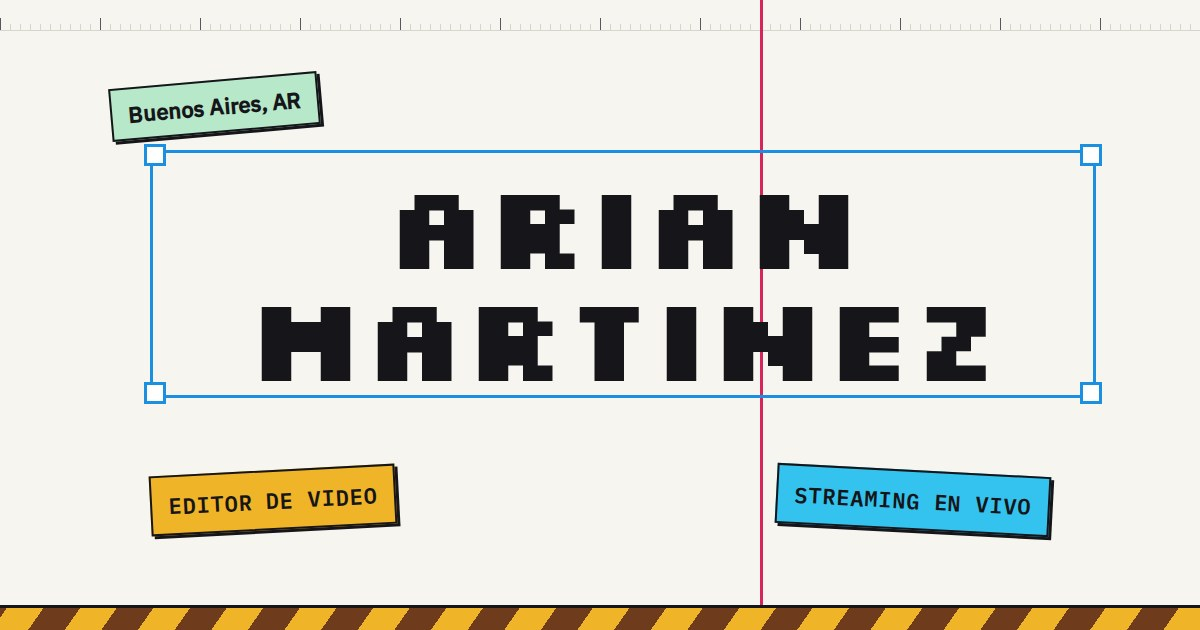
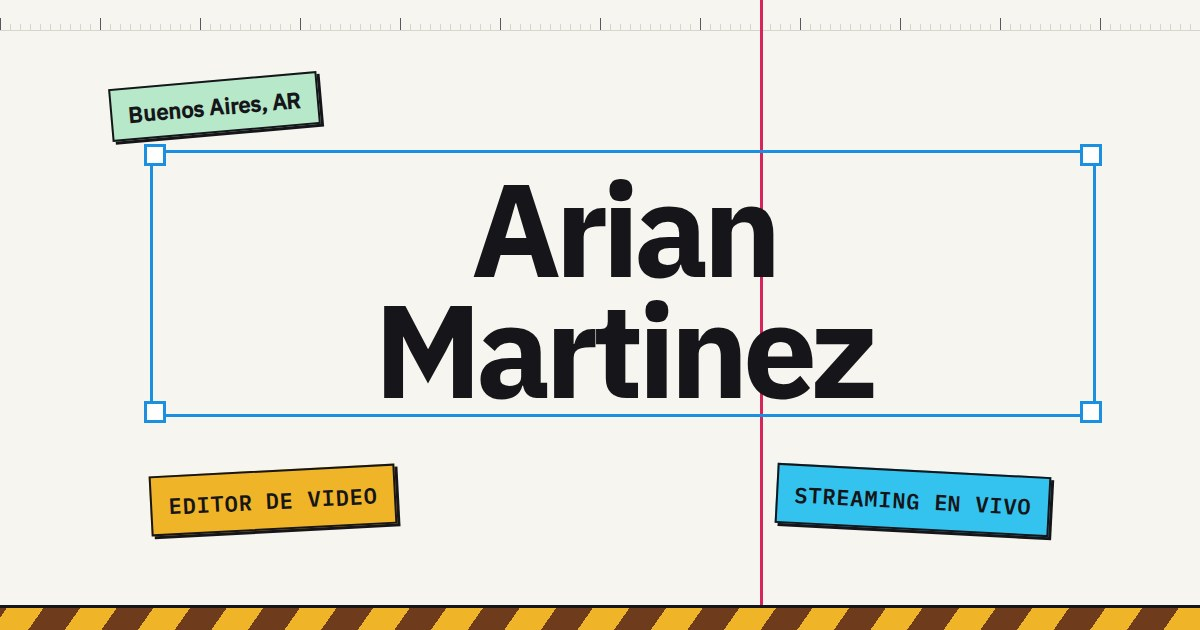
Diseño más sobrio: solo IBM Plex Sans + Plex Mono
Se sacan Silkscreen (pixel) y Caveat (manuscrita). Títulos en Plex Sans 700
con interletrado negativo y sin mayúsculas forzadas; notas en itálica.
Sombras duras más chicas, stickers menos rotados y títulos que se
encienden con fundido (sin destello cyan). Corrige la tarjeta vertical
única que ocupaba todo el ancho. OG image y DESIGN.md actualizados.

Claude-Session: https://claude.ai/code/session_01SUW8UXGu6fzjhU7jvnio61

Changed region(s): [[0.0925, 0.4825, 0.925, 0.6937], [0.3083, 0.2714, 0.7092, 0.4524]]

diff --git a/css/styles.css b/css/styles.css
@@ -24,8 +24,7 @@
   /* Selección (manijas, cajas de recorte) */
   --sel: #1b8fe0;
 
-  --f-pixel: "Silkscreen", ui-monospace, "Courier New", monospace;
-  --f-hand: "Caveat", "Comic Sans MS", cursive;
+  --f-display: "IBM Plex Sans", system-ui, -apple-system, "Segoe UI", sans-serif;
   --f-text: "IBM Plex Sans", system-ui, -apple-system, "Segoe UI", sans-serif;
   --f-mono: "IBM Plex Mono", ui-monospace, Menlo, Consolas, monospace;
 
@@ -35,7 +34,7 @@
   --nav-h: 56px;
   --ruler-h: 22px;
   --border: 2px solid var(--ink);
-  --shadow: 4px 4px 0 var(--ink);
+  --shadow: 3px 3px 0 var(--ink);
 }
 
 *, *::before, *::after { box-sizing: border-box; }
@@ -63,7 +62,7 @@ ul { margin: 0; padding: 0; list-style: none; }
 svg { display: block; }
 
 .mono { font-family: var(--f-mono); font-size: 0.72rem; font-weight: 500; letter-spacing: 0.08em; text-transform: uppercase; }
-.hand { font-family: var(--f-hand); font-weight: 600; font-size: 1.35rem; line-height: 1; color: var(--ink-2); }
+.hand { font-family: var(--f-text); font-style: italic; font-weight: 400; font-size: 1rem; line-height: 1.2; color: var(--ink-2); }
 .sr-only {
   position: absolute; width: 1px; height: 1px; padding: 0; margin: -1px;
   overflow: hidden; clip: rect(0 0 0 0); white-space: nowrap; border: 0;
@@ -104,7 +103,7 @@ svg { display: block; }
   max-width: 1200px; margin: 0 auto; padding: 0 var(--gutter);
   height: var(--nav-h); display: flex; align-items: center; justify-content: space-between;
 }
-.nav__brand { display: inline-flex; align-items: center; gap: 10px; text-decoration: none; font-family: var(--f-pixel); font-weight: 700; font-size: 1rem; text-transform: uppercase; }
+.nav__brand { display: inline-flex; align-items: center; gap: 10px; text-decoration: none; font-family: var(--f-display); font-weight: 700; font-size: 1rem; }
 .nav__logo { width: 28px; height: 28px; fill: var(--ink); }
 .nav__logo-in { fill: var(--cyan); }
 
@@ -134,7 +133,7 @@ svg { display: block; }
 .nav__menu ul { display: flex; flex-direction: column; }
 .nav__menu a {
   display: block; padding: 14px 2px; text-decoration: none; border-bottom: 1px solid var(--line);
-  font-family: var(--f-pixel); font-weight: 700; font-size: 1.5rem; text-transform: uppercase;
+  font-family: var(--f-display); font-weight: 700; font-size: 1.5rem;
 }
 .nav__menu a[aria-current="true"] { color: var(--magenta); }
 
@@ -195,11 +194,11 @@ svg { display: block; }
 .hero { position: relative; padding: calc(var(--nav-h) + var(--ruler-h) + 28px) 0 88px; text-align: center; }
 .hero__tc { color: var(--ink-2); font-variant-numeric: tabular-nums; }
 
-.stage { position: relative; display: flex; justify-content: center; max-width: 920px; margin: 0 auto; padding: 74px 0 70px; }
+.stage { position: relative; display: flex; justify-content: center; max-width: 920px; margin: 0 auto; padding: 88px 0 70px; }
 .selbox { position: relative; border: 2px solid var(--sel); padding: 8px 12px 4px; }
 .hero__title {
-  font-family: var(--f-pixel); font-weight: 700; text-transform: uppercase;
-  font-size: clamp(2.1rem, 10.5vw, 6.6rem); line-height: 0.95; letter-spacing: -0.02em;
+  font-family: var(--f-display); font-weight: 700;
+  font-size: clamp(3.4rem, 16vw, 7rem); line-height: 0.92; letter-spacing: -0.045em;
   max-width: 6.5em;
 }
 
@@ -212,10 +211,10 @@ svg { display: block; }
 .sticker--magenta { background: var(--magenta); color: var(--white); font-family: var(--f-mono); font-size: 0.7rem; letter-spacing: 0.06em; text-transform: uppercase; }
 .sticker--live { background: var(--white); font-family: var(--f-mono); font-size: 0.7rem; font-weight: 600; letter-spacing: 0.1em; text-transform: uppercase; justify-self: center; }
 
-.stage__a { position: absolute; top: 6px; left: 0; transform: rotate(-6deg); }
-.stage__b { position: absolute; top: 18px; right: 0; transform: rotate(5deg); max-width: 50%; }
-.stage__hand { position: absolute; top: 50px; left: 50%; transform: translateX(-50%) rotate(-2deg); font-size: 1.2rem; }
-.stage__c { position: absolute; bottom: 56px; right: 0; transform: rotate(10deg); z-index: 4; }
+.stage__a { position: absolute; top: 6px; left: 0; transform: rotate(-3deg); }
+.stage__b { position: absolute; top: 18px; right: 0; transform: rotate(2.5deg); max-width: 50%; }
+.stage__hand { position: absolute; top: 60px; left: 50%; transform: translateX(-50%) rotate(-2deg); font-size: 1.2rem; }
+.stage__c { position: absolute; bottom: 56px; right: 0; transform: rotate(5deg); z-index: 4; }
 
 .cursor { position: absolute; display: inline-flex; align-items: flex-start; gap: 2px; z-index: 4; }
 .cursor svg { width: 16px; height: 16px; stroke: var(--ink); stroke-width: 1.5; stroke-linejoin: round; }
@@ -249,7 +248,7 @@ svg { display: block; }
   content: ""; position: absolute; inset: 7%; border: 1px dashed rgba(255, 255, 255, 0.22); pointer-events: none;
 }
 .showreel__ph::after { inset: 14%; border-color: rgba(255, 255, 255, 0.1); }
-.showreel__label { font-family: var(--f-pixel); font-weight: 700; text-transform: uppercase; font-size: clamp(1.6rem, 7vw, 3.6rem); color: var(--cyan); }
+.showreel__label { font-family: var(--f-display); font-weight: 700; font-size: clamp(1.8rem, 7vw, 3.8rem); letter-spacing: -0.04em; color: var(--cyan); }
 .showreel__ph .mono { color: #c9c9cf; }
 
 .arc { position: absolute; left: 0; bottom: 0; width: 100%; height: 70px; fill: none; stroke: var(--ink-2); stroke-width: 1; vector-effect: non-scaling-stroke; }
@@ -267,13 +266,13 @@ svg { display: block; }
 .section--tight { padding-block: 48px; }
 .section__head { display: grid; justify-items: center; text-align: center; gap: 10px; margin-bottom: 32px; }
 .pixel-title {
-  font-family: var(--f-pixel); font-weight: 700; text-transform: uppercase;
-  font-size: clamp(2.4rem, 11vw, 5rem); line-height: 0.95; letter-spacing: -0.02em;
+  font-family: var(--f-display); font-weight: 700;
+  font-size: clamp(2.4rem, 10vw, 4.6rem); line-height: 0.95; letter-spacing: -0.04em;
 }
 .pixel-title--sm { font-size: clamp(1.8rem, 7vw, 3rem); }
 .note {
   max-width: 34ch; padding: 10px 14px; background: var(--butter); border: 1.5px solid var(--ink);
-  font-size: 0.92rem; line-height: 1.45; transform: rotate(-1.5deg); box-shadow: 2px 2px 0 var(--ink);
+  font-size: 0.92rem; line-height: 1.45; transform: rotate(-0.8deg); box-shadow: 2px 2px 0 var(--ink);
 }
 
 /* Sobre mí */
@@ -308,12 +307,12 @@ svg { display: block; }
 
 .stats { display: grid; grid-template-columns: 1fr; gap: 12px; margin-top: 40px; width: 100%; }
 .stat { display: grid; gap: 4px; padding: 16px; border: var(--border); background: var(--white); text-align: left; }
-.stat__value { font-family: var(--f-pixel); font-weight: 700; font-size: clamp(2rem, 9vw, 3rem); line-height: 1; }
+.stat__value { font-family: var(--f-display); font-weight: 700; font-size: clamp(2.2rem, 9vw, 3.2rem); line-height: 1; letter-spacing: -0.04em; }
 .stat__text { color: var(--ink-2); }
-.stat--cyan { box-shadow: 6px 6px 0 var(--cyan); }
-.stat--yellow { box-shadow: 6px 6px 0 var(--yellow); }
-.stat--magenta { box-shadow: 6px 6px 0 var(--magenta); }
-.stat--green { box-shadow: 6px 6px 0 var(--green); }
+.stat--cyan { box-shadow: 4px 4px 0 var(--cyan); }
+.stat--yellow { box-shadow: 4px 4px 0 var(--yellow); }
+.stat--magenta { box-shadow: 4px 4px 0 var(--magenta); }
+.stat--green { box-shadow: 4px 4px 0 var(--green); }
 @media (min-width: 640px) { .stats { grid-template-columns: repeat(auto-fit, minmax(200px, 1fr)); } }
 
 /* Filtros */
@@ -327,7 +326,7 @@ svg { display: block; }
   font: 600 0.72rem var(--f-mono); letter-spacing: 0.08em; text-transform: uppercase; text-decoration: none;
   color: var(--ink); background: var(--white); border: var(--border); transition: background 0.15s, transform 0.15s;
 }
-.filter__n { display: grid; place-items: center; min-width: 30px; height: 30px; background: var(--paper-2); font-family: var(--f-pixel); font-weight: 700; }
+.filter__n { display: grid; place-items: center; min-width: 30px; height: 30px; background: var(--paper-2); font-family: var(--f-display); font-weight: 700; }
 .filter:hover { background: var(--paper-2); }
 .filter[aria-current="true"] { background: var(--ink); color: var(--white); transform: translateY(-2px); }
 .filter[aria-current="true"] .filter__n { background: var(--yellow); color: var(--ink); }
@@ -351,7 +350,7 @@ svg { display: block; }
   display: flex; align-items: center; gap: 8px; height: 32px; padding: 0 22px 0 12px; overflow: hidden;
   text-decoration: none; white-space: nowrap; transition: height 0.2s, padding 0.2s;
 }
-.group .panel__tab-n { font-family: var(--f-pixel); font-weight: 700; font-size: 0.85rem; }
+.group .panel__tab-n { font-family: var(--f-display); font-weight: 700; font-size: 0.85rem; }
 .group .panel__tab-name { overflow: hidden; text-overflow: ellipsis; }
 .group.is-front .panel__tab { height: 38px; }
 .group .panel__tab:hover { height: 38px; }
@@ -388,6 +387,7 @@ svg { display: block; }
 }
 .track > * { scroll-snap-align: start; }
 .track--solo { grid-auto-columns: 100%; }
+.track--solo.track--v { grid-auto-columns: min(100%, 560px); }
 @media (min-width: 640px) { .track { grid-auto-columns: calc((100% - 14px) / 2); } .track--solo { grid-auto-columns: 100%; } }
 @media (min-width: 1000px) {
   .track { grid-auto-columns: calc((100% - 44px) / 3); gap: 22px; }
@@ -447,9 +447,9 @@ svg { display: block; }
   position: absolute; left: 10px; bottom: 10px; z-index: 2; pointer-events: none;
   display: inline-flex; align-items: baseline; gap: 6px; padding: 5px 9px;
   background: var(--yellow); color: var(--ink); border: 1.5px solid var(--ink); box-shadow: 2px 2px 0 var(--ink);
-  font: 600 0.72rem var(--f-mono); text-transform: uppercase; letter-spacing: 0.04em; transform: rotate(-3deg);
+  font: 600 0.72rem var(--f-mono); text-transform: uppercase; letter-spacing: 0.04em; transform: rotate(-1.5deg);
 }
-.metric strong { font: 700 1.05rem var(--f-pixel); }
+.metric strong { font: 700 1.05rem var(--f-display); }
 .metric { white-space: nowrap; }
 @media (max-width: 999px) {
   .card--v .metric { left: 6px; padding: 4px 7px; }
@@ -502,7 +502,7 @@ svg { display: block; }
 .account__top { display: grid; grid-template-columns: auto 1fr auto; gap: 10px; align-items: center; }
 .avatar {
   display: grid; place-items: center; width: 42px; height: 42px; border-radius: 50%; border: 2px solid var(--ink);
-  font: 700 0.8rem var(--f-pixel);
+  font: 700 0.8rem var(--f-display);
 }
 .avatar--cyan { background: var(--cyan); }
 .avatar--yellow { background: var(--yellow); }
@@ -522,7 +522,7 @@ svg { display: block; }
 /* --------------------------------------------------------- Herramientas */
 .tools { display: grid; grid-template-columns: repeat(auto-fill, minmax(190px, 1fr)); gap: 10px; }
 .tool { display: flex; align-items: center; gap: 10px; padding: 4px 12px 4px 4px; background: var(--white); border: var(--border); }
-.tool__ico { display: grid; place-items: center; flex: none; width: 42px; height: 42px; border: 2px solid var(--ink); font: 700 0.7rem var(--f-pixel); }
+.tool__ico { display: grid; place-items: center; flex: none; width: 42px; height: 42px; border: 2px solid var(--ink); font: 700 0.7rem var(--f-display); }
 .tool__ico--cyan { background: var(--cyan); }
 .tool__ico--yellow { background: var(--yellow); }
 .tool__ico--magenta { background: var(--magenta); color: var(--white); }
@@ -558,12 +558,12 @@ svg { display: block; }
 
 .bigbtn {
   display: inline-flex; align-items: center; gap: 12px; padding: 10px;
-  background: var(--cyan); color: var(--ink); border: 3px solid var(--ink); box-shadow: 6px 6px 0 var(--ink);
+  background: var(--cyan); color: var(--ink); border: 2px solid var(--ink); box-shadow: 4px 4px 0 var(--ink);
   text-decoration: none; transition: transform 0.12s, box-shadow 0.12s;
 }
-.bigbtn:hover { transform: translate(-3px, -3px); box-shadow: 9px 9px 0 var(--ink); }
+.bigbtn:hover { transform: translate(-2px, -2px); box-shadow: 6px 6px 0 var(--ink); }
 .bigbtn:active { transform: translate(3px, 3px); box-shadow: 2px 2px 0 var(--ink); }
-.bigbtn__label { font: 700 clamp(1.5rem, 8vw, 3.4rem)/1 var(--f-pixel); text-transform: uppercase; padding: 0 4px; }
+.bigbtn__label { font: 700 clamp(1.6rem, 8vw, 3.4rem)/1 var(--f-display); letter-spacing: -0.04em; padding: 0 4px; }
 .bigbtn__ico { display: grid; place-items: center; width: clamp(36px, 9vw, 60px); height: clamp(36px, 9vw, 60px); background: var(--magenta); border: 2px solid var(--ink); }
 .bigbtn__ico svg { stroke: var(--yellow); }
 
@@ -589,7 +589,7 @@ svg { display: block; }
 .lado__wrap { display: grid; justify-items: center; gap: 14px; text-align: center; }
 .side-switch {
   position: relative; display: grid; grid-template-columns: 1fr 1fr; gap: 6px; padding: 6px;
-  width: min(100%, 760px); background: var(--white); border: 3px solid var(--ink); box-shadow: 6px 6px 0 var(--ink);
+  width: min(100%, 760px); background: var(--white); border: 2px solid var(--ink); box-shadow: 4px 4px 0 var(--ink);
 }
 .side-switch__opt {
   position: relative; z-index: 1; display: flex; align-items: center; gap: 12px; min-height: 68px; padding: 10px 12px;
@@ -598,7 +598,7 @@ svg { display: block; }
 .side-switch__opt:focus-visible { outline-offset: -4px; }
 .side-switch__ico { display: grid; place-items: center; flex: none; width: 42px; height: 42px; background: var(--white); border: 2px solid var(--ink); }
 .side-switch__ico svg { width: 24px; height: 24px; fill: none; stroke: var(--ink); stroke-width: 2; stroke-linejoin: round; }
-.side-switch__label { display: block; font: 700 clamp(0.8rem, 3.2vw, 1.25rem)/1.1 var(--f-pixel); text-transform: uppercase; }
+.side-switch__label { display: block; font: 700 clamp(0.95rem, 3.6vw, 1.35rem)/1.1 var(--f-display); letter-spacing: -0.02em; }
 .side-switch__txt .mono { display: block; margin-top: 4px; font-size: 0.6rem; }
 .side-switch__knob {
   position: absolute; z-index: 0; top: 6px; bottom: 6px; left: 6px; width: calc(50% - 9px);
@@ -663,7 +663,7 @@ svg { display: block; }
 /* Títulos pixel que se encienden letra a letra */
 .pw { white-space: nowrap; }
 .motion .pc { color: var(--line); transition: color 0.25s; }
-.motion .pc.on { color: inherit; animation: pc-flash 0.35s ease-out; }
+.motion .pc.on { color: inherit; }
 @keyframes pc-flash { 0% { background: var(--cyan); } 100% { background: transparent; } }
 .motion .showreel__label .pc, .motion .panel--ink .pc { color: inherit; }
 
@@ -721,7 +721,7 @@ svg { display: block; }
 /* Playlist de YouTube (sin miniatura fija) */
 .lite__list {
   position: absolute; inset: 0; display: grid; place-content: center; justify-items: center; gap: 6px; padding: 16px; text-align: center;
-  font: 700 clamp(1rem, 3vw, 1.4rem)/1.1 var(--f-pixel); text-transform: uppercase; color: var(--white);
+  font: 700 clamp(1rem, 3vw, 1.4rem)/1.1 var(--f-display); color: var(--white);
 }
 .lite__list .mono { color: var(--cyan); font-family: var(--f-mono); font-size: 0.7rem; }
 .lite__list { padding-top: 40px; }

diff --git a/index.html b/index.html
@@ -24,7 +24,7 @@
 
   <link rel="preconnect" href="https://fonts.googleapis.com">
   <link rel="preconnect" href="https://fonts.gstatic.com" crossorigin>
-  <link href="https://fonts.googleapis.com/css2?family=Silkscreen:wght@400;700&family=Caveat:wght@600&family=IBM+Plex+Mono:wght@500;600&family=IBM+Plex+Sans:wght@400;500;600;700&display=swap" rel="stylesheet">
+  <link href="https://fonts.googleapis.com/css2?family=IBM+Plex+Mono:wght@500;600&family=IBM+Plex+Sans:ital,wght@0,400;0,500;0,600;0,700;1,400&display=swap" rel="stylesheet">
   <link rel="stylesheet" href="css/styles.css">
 </head>
 <body>
@@ -95,7 +95,7 @@
     <section class="section about" id="sobre-mi" aria-labelledby="about-title">
       <div class="wrap">
         <p class="hand about__hand" aria-hidden="true">sobre mí!</p>
-        <h2 class="tagbox" id="about-title" data-scroll-rot="-10">¿Qué onda?<span class="h h--tl" aria-hidden="true"></span><span class="h h--tr" aria-hidden="true"></span><span class="h h--bl" aria-hidden="true"></span><span class="h h--br" aria-hidden="true"></span></h2>
+        <h2 class="tagbox" id="about-title" data-scroll-rot="-5">¿Qué onda?<span class="h h--tl" aria-hidden="true"></span><span class="h h--tr" aria-hidden="true"></span><span class="h h--bl" aria-hidden="true"></span><span class="h h--br" aria-hidden="true"></span></h2>
 
         <div class="polaroids">
           <figure class="polaroid polaroid--a">

diff --git a/DESIGN.md b/DESIGN.md
@@ -17,7 +17,7 @@ Guía visual del sitio. Antes de agregar una sección, un componente o cambiar e
 | Bloques de proyecto con pestaña de carpeta | **Carpetas de color** por categoría de edición, streaming y producción (`.panel`) |
 | Cursores multiplayer con nombre | Cursores con los dos roles: "Editor de video" y "Streaming en vivo" |
 | Comentario de Figma | Tarjetas de cuentas de redes y comentario en Contacto |
-| Notas a mano ("about me!") | `.hand` en español: "sobre mí!", "mirá mi trabajo!" |
+| Notas a mano ("about me!") | `.hand` en itálica: "sobre mí!", "mirá mi trabajo!" |
 
 - **Tono:** lúdico y artesanal, pero ordenado. Se tiene que ver como el escritorio de alguien que edita, no como una plantilla.
 - **Densidad:** media-baja (4/10). Mucho aire entre secciones y bloques grandes.
@@ -66,24 +66,26 @@ Fondo claro, tinta casi negra y **cuatro colores de bloque** saturados. Es una e
 
 ## 3. Tipografía
 
+**Dos tipografías, de la misma familia.** Antes había cuatro (pixel Silkscreen y manuscrita Caveat incluidas); se sacaron para que el sitio se vea más sobrio y menos "videojuego".
+
 | Rol | Familia | Dónde |
 |---|---|---|
-| Display pixel | **Silkscreen** 700 | Nombre, títulos de sección (`.pixel-title`), valores de números, botón CONTACTO, iniciales |
-| Manuscrita | **Caveat** 600 | Notas sueltas (`.hand`): una por sección, como máximo |
-| Texto | **IBM Plex Sans** 400–700 | Párrafos, títulos de tarjeta, títulos de carpeta |
+| Display y texto | **IBM Plex Sans** 400–700 (+ itálica 400) | Nombre, títulos de sección (`.pixel-title`, el nombre de la clase quedó por historia), números, iniciales, botón Contacto, títulos de carpeta y tarjeta, párrafos. La itálica 400 es para las notas sueltas (`.hand`) |
 | Mono / UI | **IBM Plex Mono** 500–600 | Etiquetas, tags, botones, navegación, timecode (`.mono`, siempre en MAYÚSCULAS con tracking `0.08em`) |
 
 **Escala**
-- Nombre del hero: `clamp(2.1rem, 10.5vw, 6.6rem)`, en dos líneas.
-- `.pixel-title`: `clamp(2.4rem, 11vw, 5rem)`. La versión chica (`--sm`) es para secciones secundarias.
+- Nombre del hero: Plex Sans 700, `clamp(3.4rem, 16vw, 7rem)`, interletrado `-0.045em`. Ocupa dos líneas en el celular y una en escritorio.
+- Títulos de sección: Plex Sans 700, `clamp(2.4rem, 10vw, 4.6rem)`, interletrado `-0.04em`, en tipo oración (sin mayúsculas forzadas).
 - Título de carpeta: Plex Sans 600, `clamp(1.6rem, 6vw, 2.4rem)`.
 - Título de tarjeta: Plex Sans 600, `1.3rem`.
 - Texto: `1rem`, interlineado `1.6`, máximo **54–60 caracteres** por línea.
+- Notas (`.hand`): Plex Sans itálica 400, `1rem`, en `--ink-2`, en minúscula. Una por sección como máximo.
 - Mono: `0.62–0.8rem`. Nunca menos de `0.58rem` (los números de la regla).
 
 **Reglas**
-- La pixel **solo va en títulos cortos** (1–2 palabras). Nunca en párrafos, descripciones ni texto de más de ~16 caracteres por línea.
-- No mezclar dos display en la misma línea.
+- Los títulos grandes van en negrita con interletrado negativo; nunca en mayúsculas.
+- Las mayúsculas son exclusivas de la mono.
+- No sumar otra familia. Si hace falta contraste, se usa peso (400/600/700) o la mono.
 
 ---
 
@@ -118,10 +120,10 @@ Todos tienen bordes rectos (`--radius: 4px` como mucho). Las únicas excepciones
   - Arriba: media con `.cliptag` y, si hay, `.metric`.
   - Abajo: tipo (mono con punto magenta), título, cliente, descripción, tags (rol en tinta, formato en blanco) y link "Ver en YouTube ↗".
   - Las verticales (9:16) siempre van en fila: portada al 42% y datos al costado.
-- **Métrica** (`.metric`): sticker amarillo rotado −3° con el número en pixel. En tarjetas verticales del celular se ve solo el número (la palabra "reproducciones" queda para lectores de pantalla).
+- **Métrica** (`.metric`): sticker amarillo rotado −1.5° con el número en Plex Sans 700. En tarjetas verticales del celular se ve solo el número (la palabra "reproducciones" queda para lectores de pantalla).
 - **Lite embed**: miniatura de YouTube con un botón de play cuadrado blanco (amarillo en hover). El iframe de `youtube-nocookie` se carga recién al hacer clic.
 - **Reel de Instagram**: portada 9:16 local o de Sanity. Si no hay portada, se muestra un rayado diagonal con "9:16" y el nombre de la cuenta.
-- **Comentario / cuenta** (`.account`, `.comment`): blanco, borde fino, sombra suave (la única sombra difusa del sistema), avatar circular con iniciales en pixel y año en etiqueta negra.
+- **Comentario / cuenta** (`.account`, `.comment`): blanco, borde fino, sombra suave (la única sombra difusa del sistema), avatar circular con iniciales en Plex Sans 700 y año en etiqueta negra.
 - **Herramienta** (`.tool`): chip con un cuadrado de color e iniciales (OBS, RC, FF…). Sin barras de porcentaje, nunca.
 - **Nota** (`.note`): post-it manteca rotado −1.5° para el lead de cada sección.
 
@@ -131,7 +133,7 @@ Todos tienen bordes rectos (`--radius: 4px` como mucho). Las únicas excepciones
 
 - Contenedor `max-width: 1200px` con un gutter de 16px.
 - Secciones con `padding: clamp(56px, 10vw, 104px) 0`.
-- **Cabecera de sección** centrada: nota a mano → `.pixel-title` → `.note`.
+- **Cabecera de sección** centrada: nota en itálica → título de sección (`.pixel-title`) → `.note`.
 - **Grilla** (cuentas de redes): 1 columna en el celular, 2 desde 640px y 3 desde 1000px.
 - **Piezas de video:** siempre en `.track` dentro de una carpeta, nunca en grilla suelta.
 - **Hero centrado.** Es una excepción deliberada, porque la referencia es simétrica. Los stickers flotan alrededor de la caja dentro de `.stage` (max 920px). Pueden pisar el borde de la caja, pero **nunca tapar texto**.
@@ -157,7 +159,7 @@ Todos tienen bordes rectos (`--radius: 4px` como mucho). Las únicas excepciones
 | Arrastre (`[data-drag]`) | Con mouse, cualquier sticker o cursor del hero se agarra y queda donde lo soltás. En táctil está desactivado, para no trabar el scroll. |
 | Cursor "VOS" (`.you`) | Punto y etiqueta que siguen al mouse con un leve retraso (lerp 0.32). La etiqueta cambia según lo que hay debajo: **Play** (video), **Abrir** (reel), **Arrastrá**, **Cambiar** (interruptor) o **Clic**. El cursor del sistema **se sigue viendo**. Solo en dispositivos con mouse. |
 | Regla (`.ruler__hover`) | Línea cyan con el timecode de la posición del mouse (100 px = 10 s) |
-| `.pixel-title` y `.hero__title` | Al entrar en pantalla, las letras pasan de `--line` a tinta en secuencia (55 ms cada una), con un destello cyan de "selección" |
+| `.pixel-title` y `.hero__title` | Al entrar en pantalla, las letras pasan de `--line` a tinta en secuencia (55 ms cada una), con un fundido suave (sin destello) |
 | `#sobreMi` | Las palabras pasan de gris a tinta según el avance del scroll |
 | `[data-scroll-rot]` ("¿Qué onda?") | Arranca rotado −10° y se endereza al entrar |
 | Tarjetas, stats, chips, notas, polaroids, comentario, botón CONTACTO | Entran con un rebote (`translate` + `scale`, curva con overshoot), escalonadas 70 ms entre hermanos |
@@ -195,7 +197,7 @@ Todos tienen bordes rectos (`--radius: 4px` como mucho). Las únicas excepciones
 ## 8. Contenido y tono
 
 - Español rioplatense, profesional y cercano, con frases cortas.
-- Las notas a mano son breves y en minúscula: "sobre mí!", "mirá mi trabajo!", "detrás de cámara".
+- Las notas sueltas (en itálica) son breves y en minúscula: "sobre mí!", "mirá mi trabajo!", "detrás de cámara".
 - Los stickers del hero dicen cosas verificables: dónde trabaja ahora, dónde trabajó y dónde vive.
 - Los números tienen que ser reales. "+290 mil" sí; "100%" o "+1000 clientes", no.
 - El contenido se edita en Sanity (https://arian-portfolio.sanity.studio/). El diseño se adapta solo a la cantidad de piezas.
@@ -205,7 +207,7 @@ Todos tienen bordes rectos (`--radius: 4px` como mucho). Las únicas excepciones
 ## 9. No hacer
 
 - Emojis en la interfaz.
-- Usar la pixel en párrafos o en botones con texto largo.
+- Volver a sumar tipografías decorativas (pixel, manuscrita): el sistema es Plex Sans + Plex Mono.
 - Fondo blanco puro o texto `#000`.
 - Degradados de color, glow, neón o glassmorphism.
 - Bordes redondeados grandes en tarjetas de trabajo.
